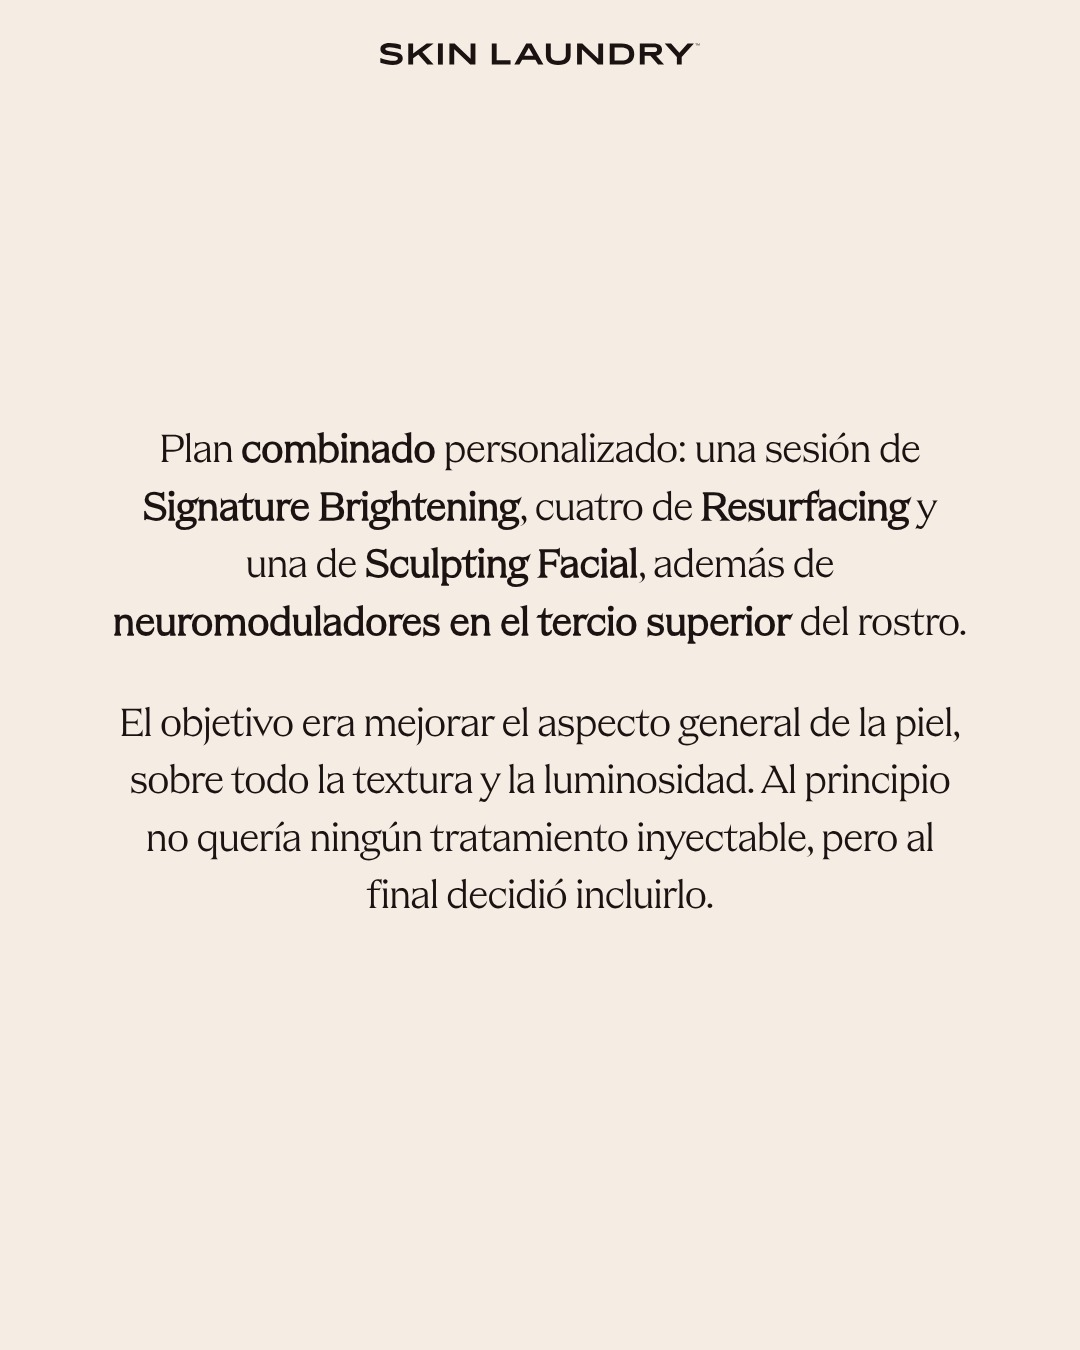
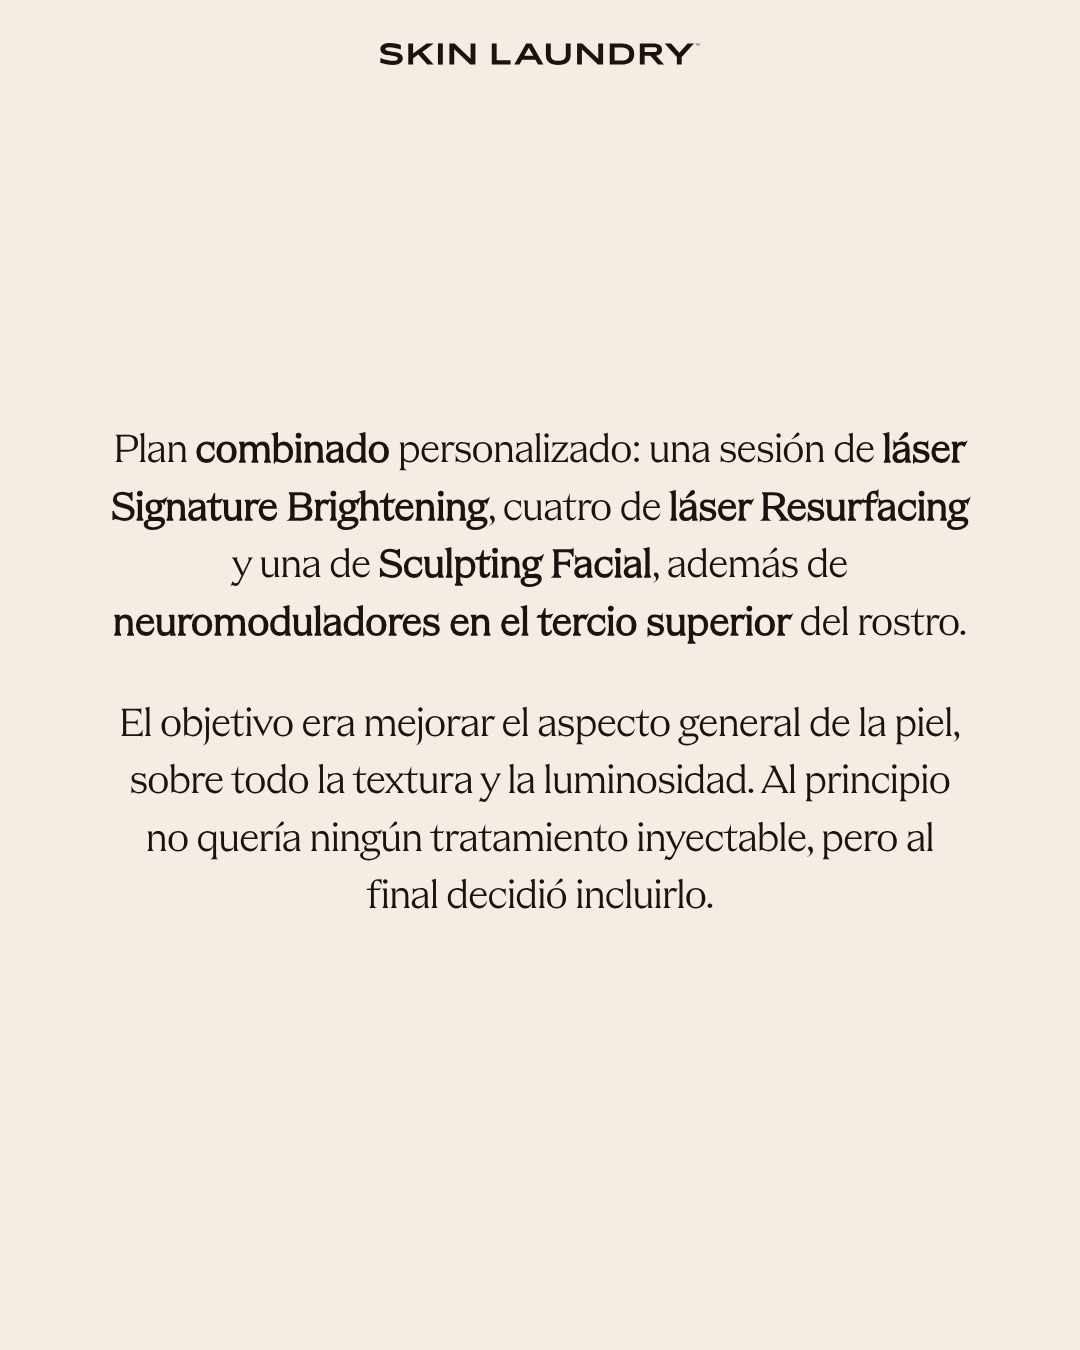
Calendario noviembre: remarcar láser en la explicación del 14
Claude-Session: https://claude.ai/code/session_01JZ4qrB4vBJCM1LriYw1bZU

Changed region(s): [[0.0917, 0.3111, 0.9167, 0.4356]]

diff --git a/public/pitch/skin-laundry-calendario/noviembre/index.html b/public/pitch/skin-laundry-calendario/noviembre/index.html
@@ -676,7 +676,7 @@ Reserva tu cita desde el enlace de la bio.
   pieza:"Resultados reales: Marta",
   base:"Caso Marta Rey (correo de All About, 19/10) · consentimiento para publicar el rostro", cta:"Reserva tu valoración",
   nota:"Sustituye a «Hialurónico vs. bioestimuladores» del Excel · plan combinado: 1 Brightening + 4 Resurfacing + 1 Sculpting + toxina en tercio superior (no se nombra la toxina) · falta el tiempo entre fotos",
-  media:"/pitch/skin-laundry-calendario/noviembre/img/d14_mr_2.jpg?v=11120110", slides:["/pitch/skin-laundry-calendario/noviembre/img/d14_mr_2.jpg?v=11120110","/pitch/skin-laundry-calendario/noviembre/img/d14_mr_info.jpg?v=11120115"],
+  media:"/pitch/skin-laundry-calendario/noviembre/img/d14_mr_2.jpg?v=11120110", slides:["/pitch/skin-laundry-calendario/noviembre/img/d14_mr_2.jpg?v=11120110","/pitch/skin-laundry-calendario/noviembre/img/d14_mr_info.jpg?v=11120117"],
   idea:["1 · Resultados reales: before / after sobre textura de piel","2 · Explicación del caso: tratamientos y objetivo"],
   story:["Recordatorio + enlace a la pieza"],
   copy:`Misma piel, unos meses después.
